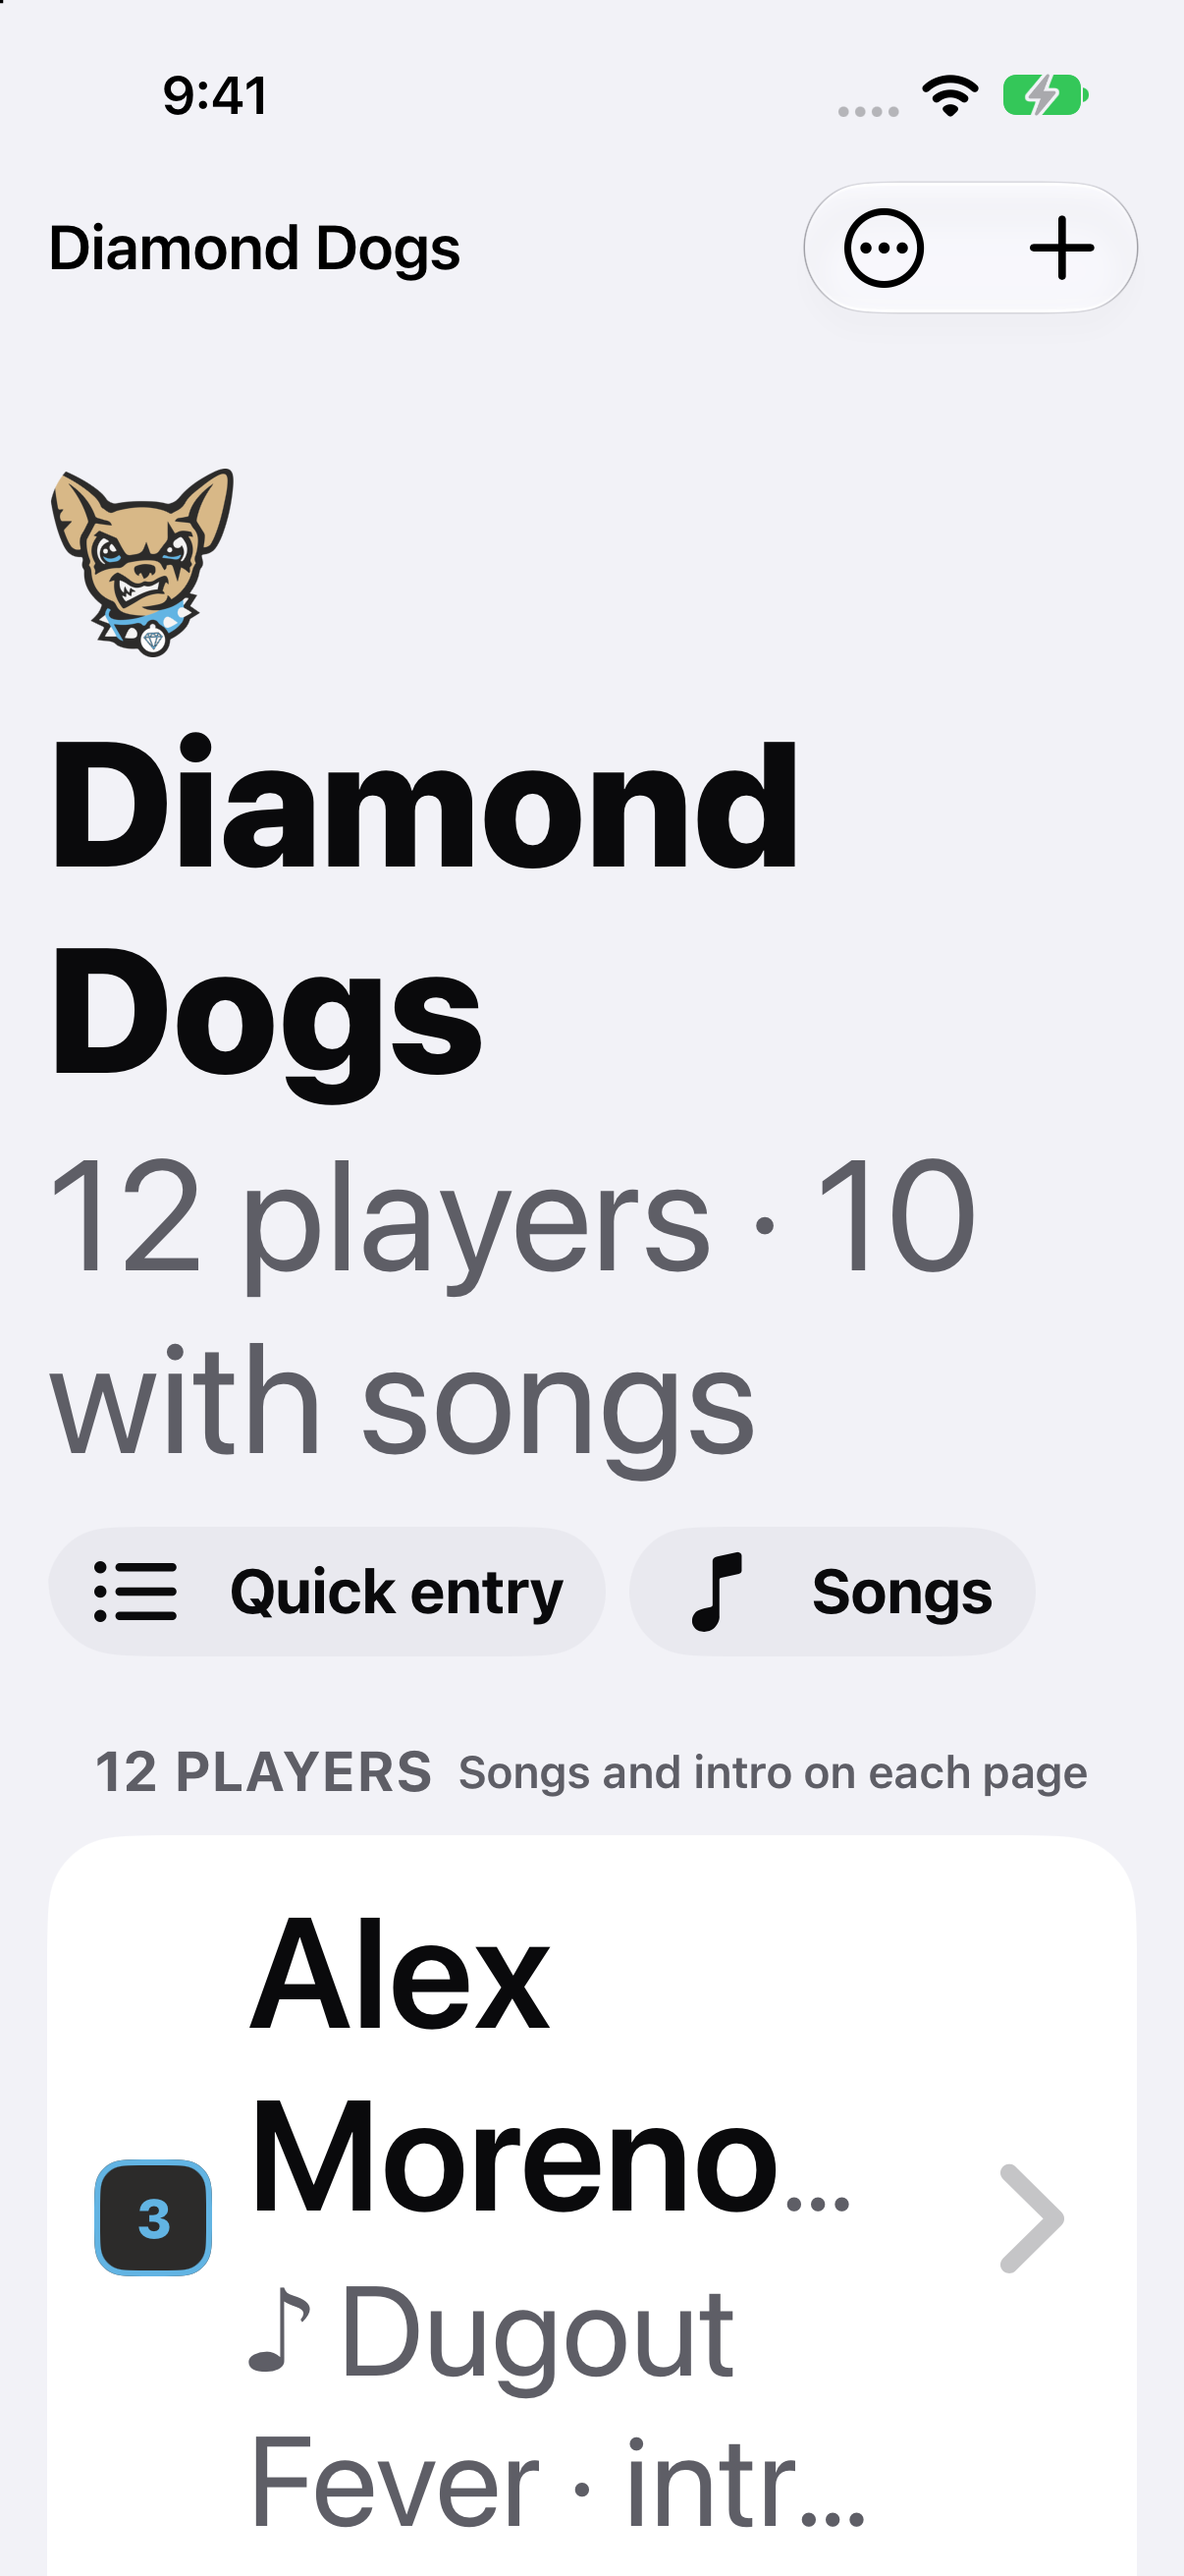
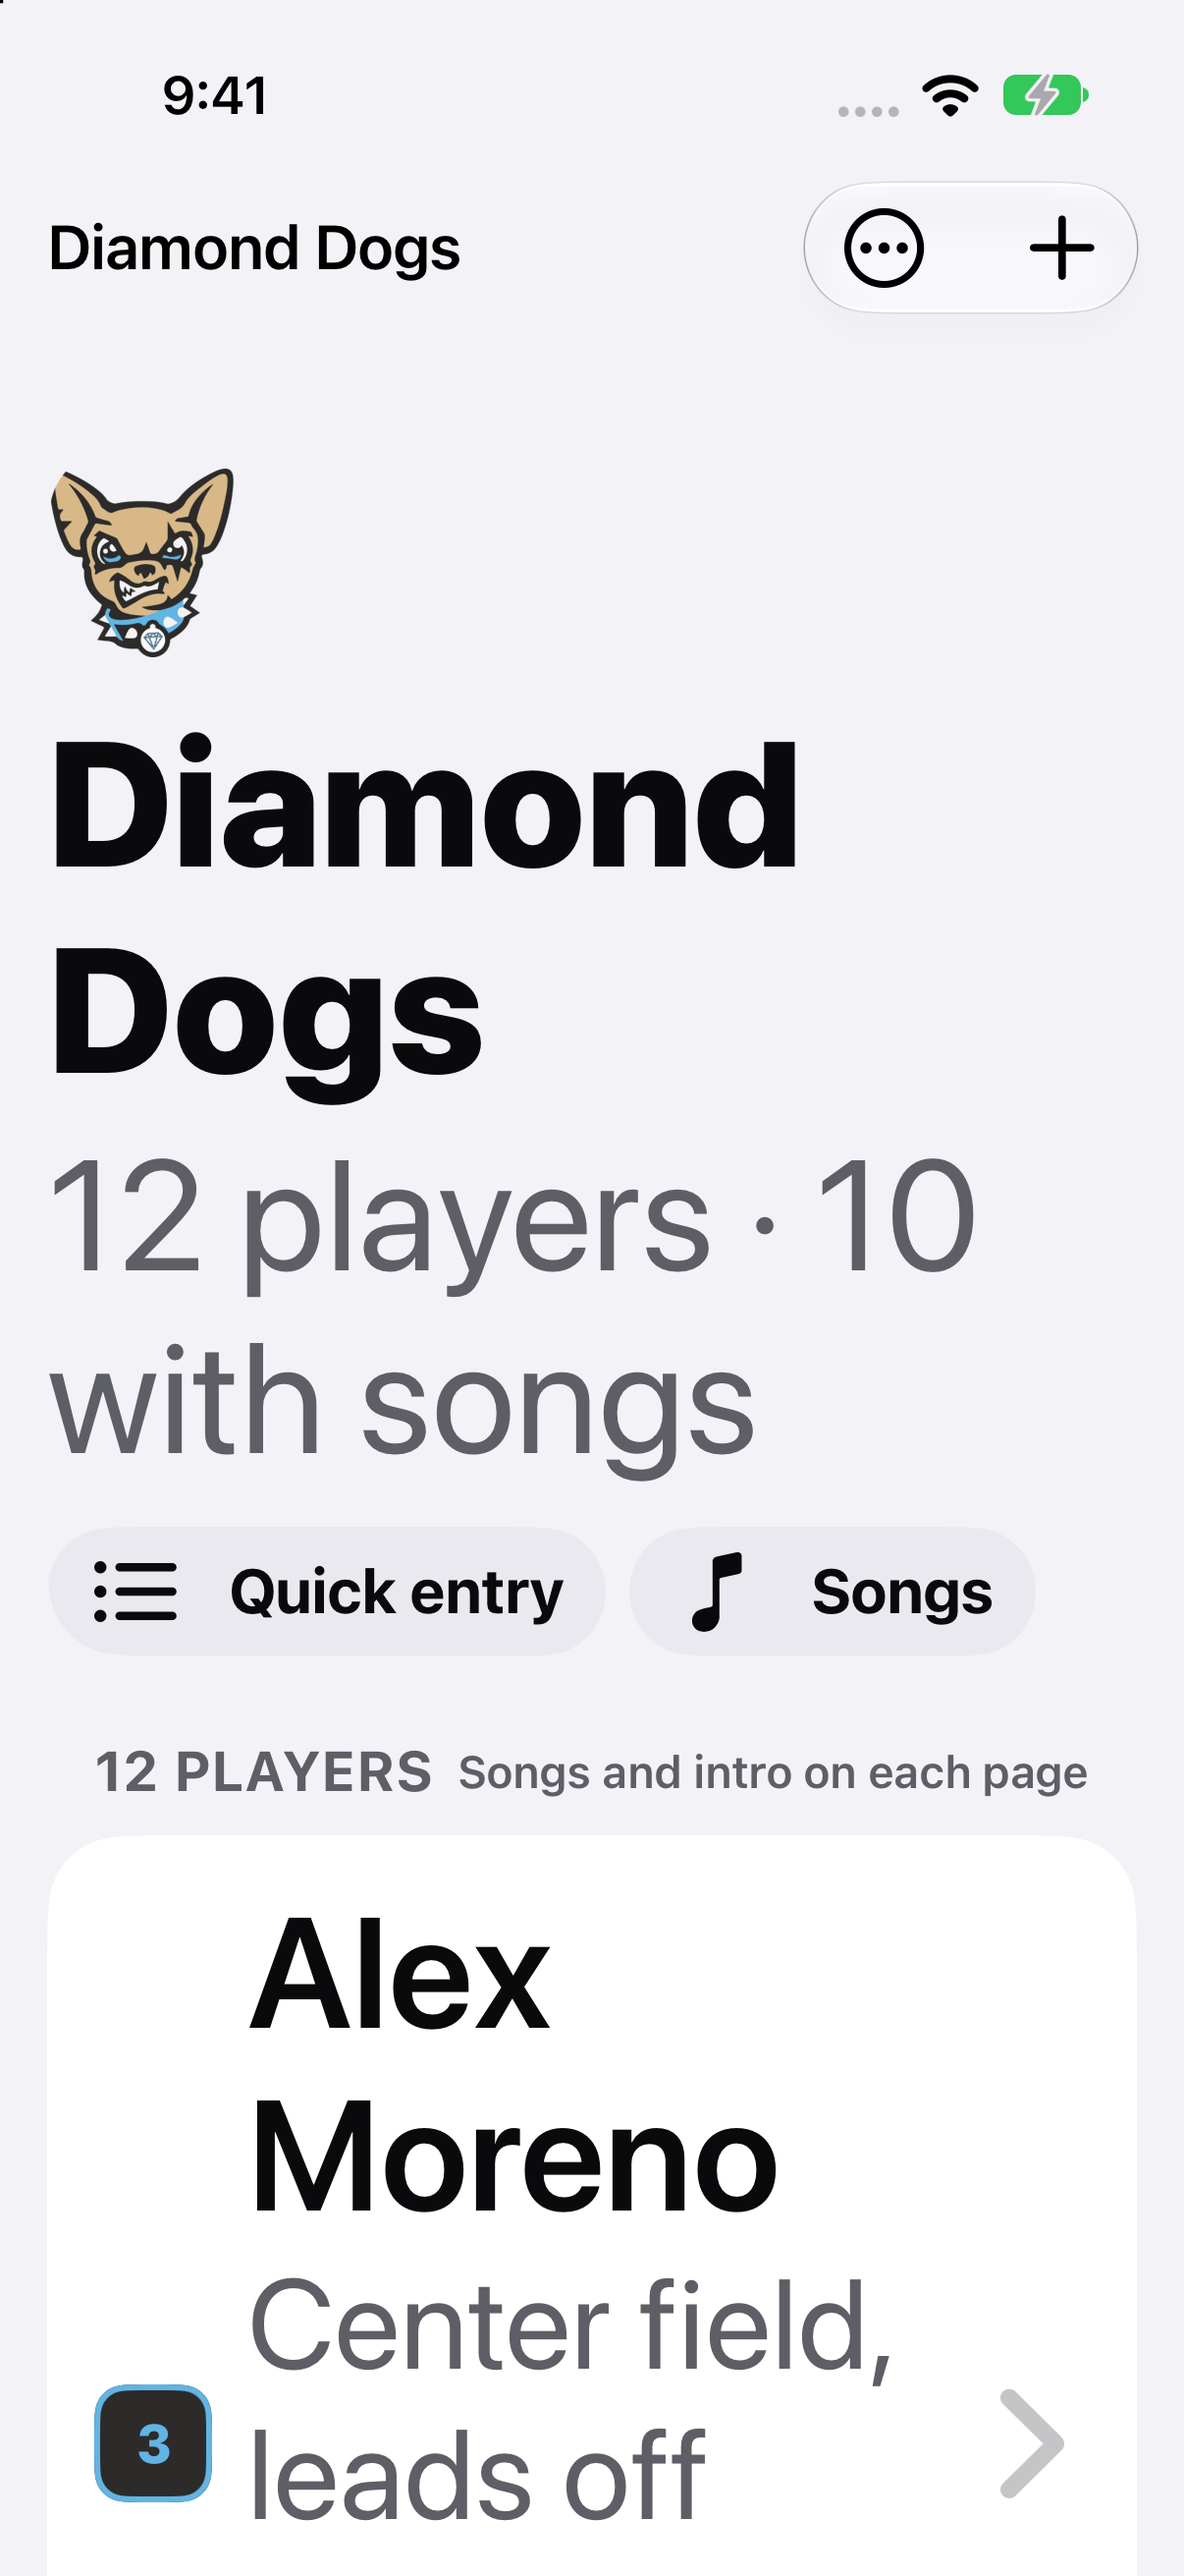
Automatic recovery copy of baseball
Working copy: /Users/mikey/projects/.worktrees/baseball/screen-teams-and-songs

diff --git a/app/Packages/ScorebookUI/Sources/TeamScreens/QuickEntrySheet.swift b/app/Packages/ScorebookUI/Sources/TeamScreens/QuickEntrySheet.swift
@@ -64,7 +64,7 @@ struct QuickEntrySheet: View {
                     .font(ScorebookFont.caption.weight(.semibold))
                     .foregroundStyle(ScorebookColor.textSecondary)
 
-                TextField("Number and name: 22 Jordan Webb", text: $line)
+                TextField("22 Jordan Webb", text: $line)
                     .font(.title3.weight(.semibold))
                     .textInputAutocapitalization(.words)
                     .autocorrectionDisabled()
